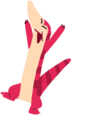
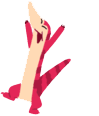
Trap stops when it hits Player.

diff --git a/player.py b/player.py
@@ -29,7 +29,6 @@ class Player:
         self.move_disabled = False
         self.score = 0
         self.missed_edibles = 0
-        #physics.add(self) # NO NEED TO ADD self
 
     def run(self):
         self.check()
@@ -45,8 +44,6 @@ class Player:
             self.score -= 10
 
         if something is not None and Edible in inspect.getmro(type(something)):
-            # self.eat_counter += 1
-            # OLD WAY OF MAKING EAT ANIMATION
             self.state_mngr.state = "eat"
             self.sfx_mixer.mix_now("eat")
             something.active = False
@@ -57,6 +54,7 @@ class Player:
             self.state_mngr.state = "trap"
             self.sfx_mixer.mix_now("trap")
             self.move_counter = settings.Counter(240)
+            something.begin_root = True
 
     def flip(self):
         if input_manager.right_pressed:
@@ -67,9 +65,9 @@ class Player:
     def eat(self):
         if self.state_mngr.state == "eat":
             self.eat_counter.countdown ()
-            # IN key_cleared CONDITION, TETE CAN ONLY SPEND 5 OR 6 FRAMES FOR EATING (HE CANNOT EAT FOREVER!),
+            # IN key_cleared CONDITION, TETE CAN ONLY SPEND 3 IMAGE-FRAMES FOR EATING (HE CANNOT EAT FOREVER!),
             # SO THE ANIMATION MUST STOP
-            # WHY 69 HERE? THERE ARE 7 EATING FRAMES, BUT EACH EATING FRAMES TAKES 10 GAME FRAMES TO BE RENDERED (SEE
+            # THERE ARE 3 EATING FRAMES, BUT EACH EATING FRAMES TAKES 10 GAME FRAMES TO BE RENDERED (SEE
             # staterender MODULE)
             if self.eat_counter.countdown ():
                 self.eat_counter.reset ()
@@ -114,13 +112,10 @@ class Player:
             if not input_manager.left_pressed:
                 self.state_mngr.state = "normal"
 
-
-
     # PART OF MOVE
     def roll(self):
         if input_manager.space_pressed:
             self.roll_counter.countdown()
-            self.position.y = GROUND_y - self.renderer.height
             # THIS WILL BE REMOVED LATER AS RESIZED IMAGE IS AVAILABLE
             # THIS WILL BE ADDED LATER AS RESIZED IMAGE IS AVAILABLE
             # self.box_collider.position.y = 530
@@ -133,14 +128,12 @@ class Player:
                     input_manager.space_play = False
         if not input_manager.space_pressed:
             self.roll_counter.reset()
-            #self.position.y = GROUND_y - self.renderer.height
 
     # PART OF MOVE
     def key_cleared(self):
         if input_manager.all_key_cleared:
             if self.state_mngr.state not in ["trap", "eat"]:
                 self.state_mngr.state = self.state_mngr.states[0]
-                #self.position.y = GROUND_y - self.renderer.height
 
     # PART OF MOVE
     def release_move(self):

diff --git a/trap.py b/trap.py
@@ -8,9 +8,8 @@ from boxcollider import *
 import random
 from object_state import ObjectState
 from settings import *
-
-
 # from player import Player
+
 
 class Trap:
     def __init__(self):
@@ -19,13 +18,14 @@ class Trap:
         self.position.x = random.randrange(50, 750)
         self.state_mngr = ObjectState ("trap")
         self.renderer = loadSpriteRenderer("resources/trap/normal.png", flip_path="resources/trap/flip_normal.png")
-
         self.sfx_mixer = None
         self.constraints = None
         self.direction_x = random.choice ((-2, 0, 2))
         self.direction_y = 3
         self.ground_hit = 0
         self.box_collider = BoxCollider(self.position.add(103, 72), 140, 80)
+        self.root_counter = Counter(240)
+        self.begin_root = False
         physics.add_traps(self)
         game_manager.add(self)
 
@@ -33,13 +33,17 @@ class Trap:
         if self.active:
             self.position.add_up(self.direction_x, self.direction_y)
             self.box_collider.position.add_up(self.direction_x, self.direction_y)
-            #self.box_collider.Print()
+            # if self.position.y >= GROUND_y:
+            #     self.active = False
 
-            # JUST TEMPORARY
-            if self.position.y >= HEIGHT-self.renderer.height:
+        if self.begin_root:
+            self.root_counter.countdown()
+            if self.root_counter.counter == 189:
+                self.direction_y, self.direction_x = 0, 0
+            if self.root_counter.countdown():
                 self.active = False
 
-            self.flip()
+        self.flip ()
 
     # PART OF RUN
     def flip(self):

diff --git a/main.py b/main.py
@@ -60,9 +60,9 @@ while playing:
         #non_edible_fruit = Fruit()
         edible = Fly()
         trap = Trap()
-    if i == 150:
-        lion = Lion()
-        game_manager.add(lion)
+    # if i == 150:
+    #     lion = Lion()
+    #     game_manager.add(lion)
 
     ## Update logic
     run()

diff --git a/renderer.py b/renderer.py
@@ -60,7 +60,6 @@ class StateRender:
         current_state = self.render_state_mngr.state
 
         if self.last_state != current_state:
-            print(current_state)
             self.image_index = 0
 
         if not self.flipped:
